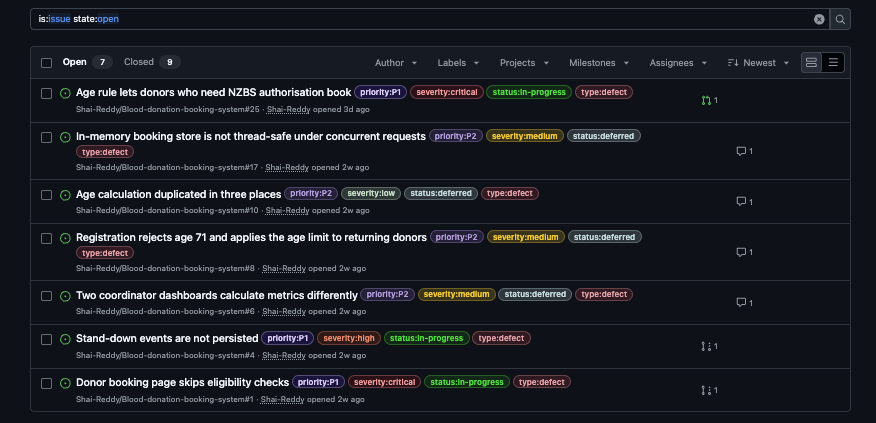
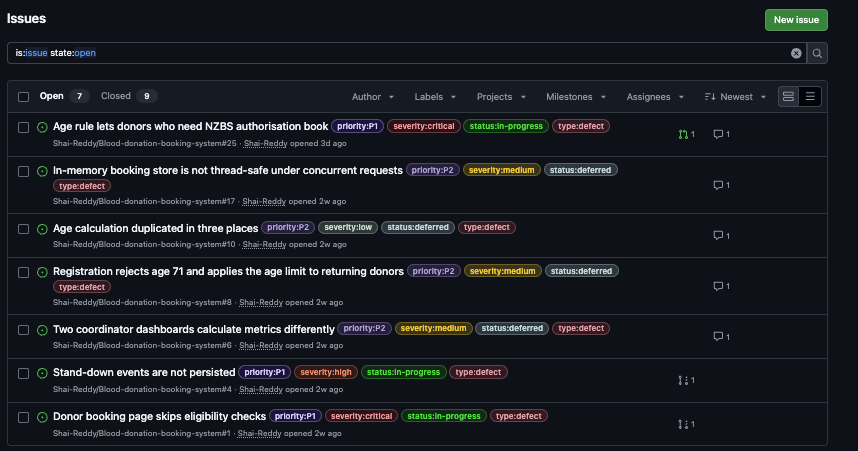
docs: add defect register after-clean-up screenshots

diff --git a/docs/report/evidence-log.md b/docs/report/evidence-log.md
@@ -20,7 +20,7 @@ Items marked **Now** show a state that will change. Capture them before the next
 | [ ] | Any time | Settings → Branches → protection rule for `main` | Task 5 | `evidence/ci/branch-protection.png` |
 | [ ] | Any time | Actions tab, run history | Task 5 | `evidence/ci/actions-history.png` |
 | [ ] | Any time | Run `38378148778` (red) and `38378373592` (green), test step expanded | Task 3, Task 5 | `evidence/ci/age-rule-red.png`, `age-rule-green.png` |
-| [~] | 16 Oct | Open issues (7) with `status:deferred` and `status:in-progress`. **Still needed:** the closed issues (9) with `status:verified`, using the same filter as the before shot | Task 6 (after clean-up) | `evidence/defects/register-after-cleanup-open.png`; closed tab still to take |
+| [x] | 16 Oct | Defect register after clean-up: open (7, `status:deferred` or `status:in-progress`) and closed (9, all `status:verified`). Every issue is a defect, so the two tabs cover the same 16 as the before shot | Task 6 (after clean-up) | `evidence/defects/register-after-cleanup-open.png`, `register-after-cleanup-closed.png` |
 | [x] | 16 Oct | NZBS Eligibility Criteria page, Age section. Matches PR #26 (comment on #25). The address bar and date are not in the shot; retake with them if time allows | Task 2, Task 6, #25 | `evidence/sources/nzbs-age-criteria.png` |
 | [ ] | After clean-up | One issue's timeline showing every lifecycle stage (#3 or #25) | Task 6 | `evidence/defects/lifecycle-example.png` |
 | [ ] | On the freeze commit | `dotnet test` output, TRX file, coverage report | Task 3, Task 4 | `evidence/tests/` |
